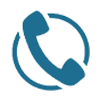
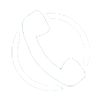
Add Check Stock For Check

Changed region(s): [[0.12, 0.09, 0.9, 0.93]]

diff --git a/MyBloodAppLogin/Cek_Stock/CekStock_For_Check.xaml b/MyBloodAppLogin/Cek_Stock/CekStock_For_Check.xaml
@@ -69,14 +69,57 @@
                         <RowDefinition Height="188"/>
                     </Grid.RowDefinitions>
 
-                    <materialDesign:Card Margin="15" Background="AntiqueWhite" UniformCornerRadius="20">
+                    <materialDesign:Card Margin="15" Background="DarkRed" UniformCornerRadius="20">
                         <Grid Grid.Column="2">
                             <Grid.ColumnDefinitions>
                                 <ColumnDefinition Width="130"/>
                                 <ColumnDefinition Width="30"/>
                                 <ColumnDefinition Width="210"/>
                             </Grid.ColumnDefinitions>
-                        
+
+                            <!-- Foto Profile-->
+                            <Image Grid.Column="0" x:Name="Sardjito_Square" Margin="4,4,0,2" Source="/Assets/Sardjito_Square.png" Stretch="Fill" d:LayoutOverrides="VerticalAlignment" HorizontalAlignment="Left" Width="126"/>
+
+                            <!--Icon-->
+                            <Grid Grid.Column="1">
+                                <Grid Grid.Row="3">
+                                    <Grid.RowDefinitions>
+                                        <RowDefinition Height="39.5"/>
+                                        <RowDefinition Height="39.5"/>
+                                        <RowDefinition Height="39.5"/>
+                                        <RowDefinition Height="39.5"/>
+                                    </Grid.RowDefinitions>
+                                    <!--Icon-Icon-->
+                                    <Image Grid.Row="1" Source="/Assets/img_maps.png"/>
+                                    <Image Grid.Row="2" Source="/Assets/img_clock.png" VerticalAlignment="Center"  d:LayoutOverrides="Width" Height="46"/>
+                                    <Image Grid.Row="3" Source="/Assets/img_telepon.png" VerticalAlignment="Center"  d:LayoutOverrides="Width" Height="46"/>
+                                </Grid>
+                            </Grid>
+
+                            <!--Data RS-->
+                            <Grid Grid.Column="2">
+                                <Grid Grid.Row="3">
+                                    <Grid.RowDefinitions>
+                                        <RowDefinition Height="39.5"/>
+                                        <RowDefinition Height="39.5"/>
+                                        <RowDefinition Height="39.5"/>
+                                        <RowDefinition Height="39.5"/>
+                                    </Grid.RowDefinitions>
+
+                                    <!--Data-->
+                                    <TextBlock Grid.Row="1" Margin="0,4,0,3" HorizontalAlignment="Left" FontFamily="Bahnschrift Light" Width="300" Foreground="White">
+                                            <Run>Jl. Kesehatan No.1, Sendowo, Sinduadi </Run>
+                                            <LineBreak/>
+                                            <Run>Kec. Mlati, Sleman, DIY 55281</Run>
+                                    </TextBlock>
+                                    <TextBlock Grid.Row="2" Grid.Column="1" x:Name="Opens" Text="24 Jam" HorizontalAlignment="Left" VerticalAlignment="Center" FontFamily="Bahnschrift SemiLight" FontSize="18" Foreground="White"/>
+                                    <TextBlock Grid.Row="3" Grid.Column="1" x:Name="Telepon" Text="(0274) 631190" HorizontalAlignment="Left" VerticalAlignment="Center" FontFamily="Bahnschrift Light" FontSize="18" Foreground="White"/>
+                                    <Label Grid.Row="0" Grid.Column="1" Content="Rumah Sakit dr. Sardjito" FontFamily="Bahnschrift SemiBold Condensed" VerticalAlignment="Center" HorizontalAlignment="Left" FontSize="22" Foreground="#DDFFFFFF"/>
+
+
+                                </Grid>
+
+                            </Grid>
                         </Grid>
                     </materialDesign:Card>
                 </Grid>
